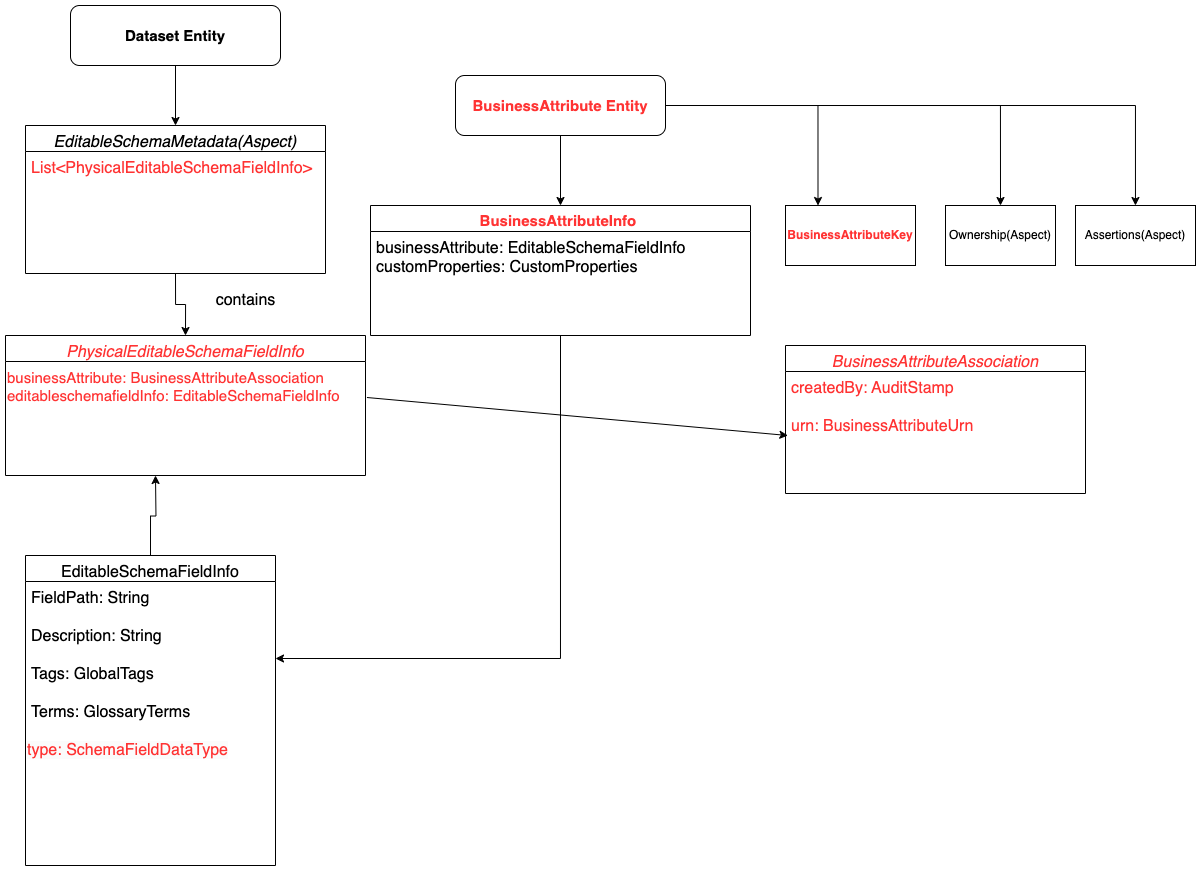
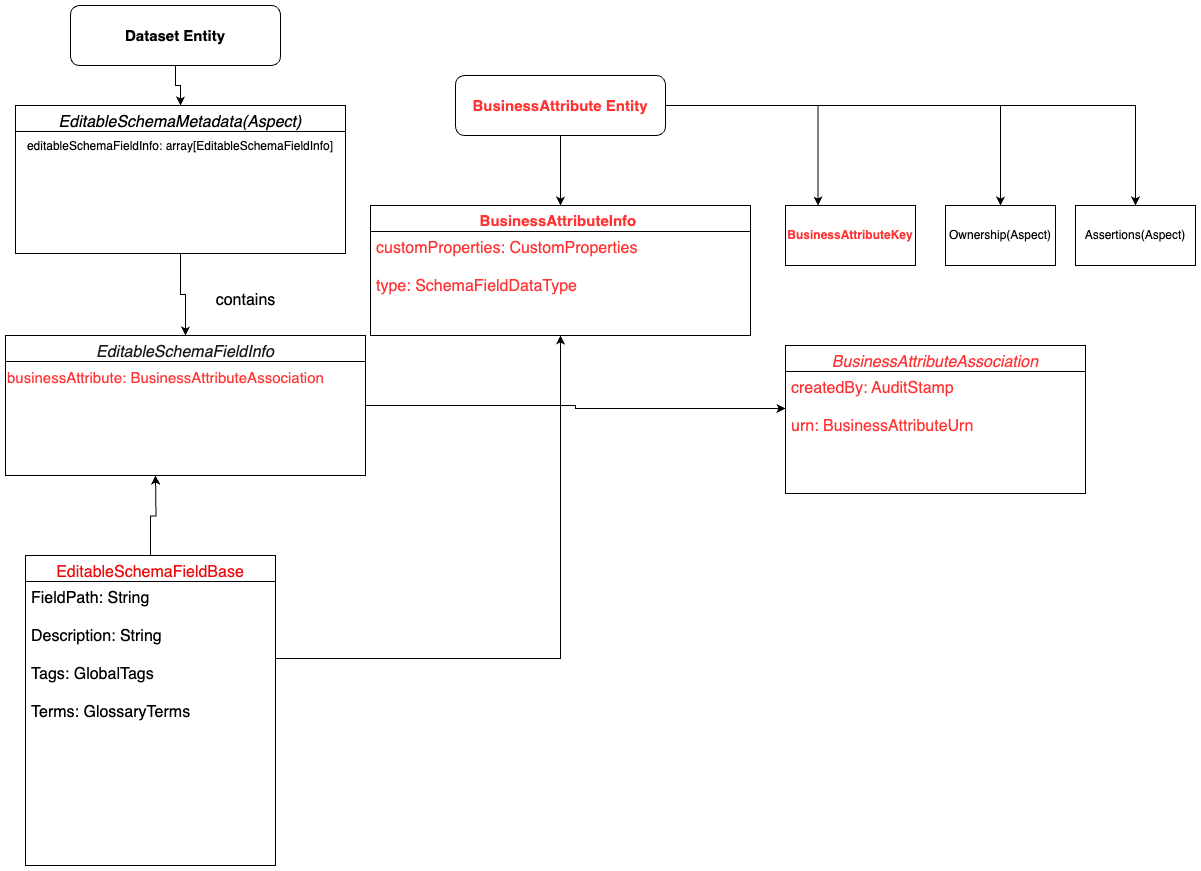
Refactoring due to design modifications

diff --git a/active/000-buisness-attributes/000-business-attributes.md b/active/000-buisness-attributes/000-business-attributes.md
@@ -85,33 +85,31 @@ Below are the current Relationships of Dataset Entity with its aspects in Datahu
 
 ### Model Business Attribute Entity
 
-We are proposing to introduce a new entity `BusinessAttribute`, which will use a new Aspect `BusinessAttributeInfo`. This new entity will be a top level entity to allow it to be defined and controlled independently by the business team.
+We're suggesting the introduction of a new entity called BusinessAttribute and a new Aspect known as BusinessAttributeInfo. This new entity will be a top-level entity, enabling it to be independently defined and managed by the business team.
 
-User can able to attach `Business Attributes` only to `Schema Fields`. We will make necessary UI changes to control this feature.
+Users will have the ability to attach Business Attributes exclusively to dataset schema Fields. We're also suggesting necessary modifications to the user interface to manage this feature.
 
-New `BusinessAttributeInfo` aspect contains existing `EditableSchemaFieldInfo` record type and also `customProperties`.  Also we are introducing one new record type, `PhysicalEditableSchemaFieldInfo` which includes existing `EditableSchemaFieldInfo`. As per this implementation, existing aspect `EditableSchemaMetadata` now contains a list of `PhysicalEditableSchemaFieldInfo` records instead of `EditableSchemaFieldInfo` records.
+We're proposing a new base class called EditableSchemaFieldBase, which will be included in both EditableSchemaFieldInfo and BusinessAttributeInfo. The main goal is to repurpose existing Records to model BusinessAttributeInfo.
 
-Each `PhysicalEditableSchemaFieldInfo` will contain an `EditableSchemaFieldInfo` and the new field "`businessAttribute`" to represent the link between dataset schema field and business attribute. We are also proposing the introduction of a new field, "`type`", in `EditableSchemaFieldInfo`.
+Furthermore, we're introducing a new field named businessAttribute of the type BusinessAttributeAssociation in EditableSchemaFieldInfo. This field will contain the urn for the BusinessAttribute attached to the dataset schema field.
 
-### URN Representation for Business Attribute
 ![](business-attribute-rfc-8.png)
 
+### URN Representation for Business Attribute
 ```
 urn:li:businessAttribute:b3916dfe-a27c-4916-97be-60773dca90d7
 ```
 
 ###  Business Attribute Attachment to SchemaField
-When the user attaches a business attribute to the corresponding schema field, the link will be represented by the business attribute id in the `PhysicalEditableSchemaFieldInfo` for Dataset. 
-
-Any changes made to business attribute will be reflected on dataset details page on the fly. Also, delinking the business attribute from the schema field is implemented by simply removing the business attribute reference.
+To create a link between the dataset schema field and the business attribute, we are proposing the introduction of a new aspect, BusinessAttributeAssociation, and a new field of the same type named businessAttribute. This field will be located in EditableSchemaFieldInfo and will hold the urn for the business attribute.
 
 ### Metadata Graph
 
 #### Enabling Capability of searching Dataset entities as per Description/tags of Business Attributes
 
-We are proposing to introduce new annotation "`@SearchableRef`", through which we can populate the elastic indexes with expanded details regarding the referenced entity.
+We propose to introduce a new annotation "@SearchableRef" to enhance the search capability of Dataset entities based on the Description/tags of Business Attributes. This annotation will allow us to populate the Elasticsearch indexes with expanded details about the referenced entity.
 
-For example, in "`PhysicalEditableSchemaFieldInfo`" we are referencing `businessAttribute` entity which can be annotated with `@SearchableRef`, which instructs relevant hooks to populate the index `datahubindex_v2` in Elasticsearch with the details of the `businessAttribute` and enables search of dataset as per properties of the `businessAttribute`. Below is the expected structure of `datasetindex_v2` after business attribute linked with `schemaField`.
+For instance, the new field 'businessAttribute' in EditableSchemaFieldInfo can be annotated with @SearchableRef. This instructs the relevant hooks to populate the Elasticsearch index 'datahubindex_v2' with details of the business attribute and enable the search of datasets based on the properties of the business attribute. The structure of 'datasetindex_v2' is expected to change accordingly once the business attribute is linked with schemaField.
 
 ```json 
 {
@@ -233,7 +231,8 @@ Also, if the consumer fails to update the elastic index in timely manner, there 
 
 ### Model Business Attribute
 
-We have also considered a secondary approach to model Business Attribute Entity (diagram below). In this we are using the existing  `EditableSchemaFieldInfo` record to model a new aspect, `BusinessAttributeInfo`, and also introducing a new field `businessAttribute` in `EditableSchemaFieldInfo` to link a business attribute with the corresponding schemaField. The major issue with this approach is the potential for a circular dependency.
+We have also explored an alternative approach to model the BusinessAttributeInfo aspect (as shown in the diagram below). In this approach, we include the reference of Business Attribute in EditableSchemaFieldInfo. However, this method could potentially lead to cyclic dependencies, which would not correctly represent our intended data model.
+
 ![](business-attribute-rfc-9.png)
 
 ### Business Attribute Attachment with Schema Field
